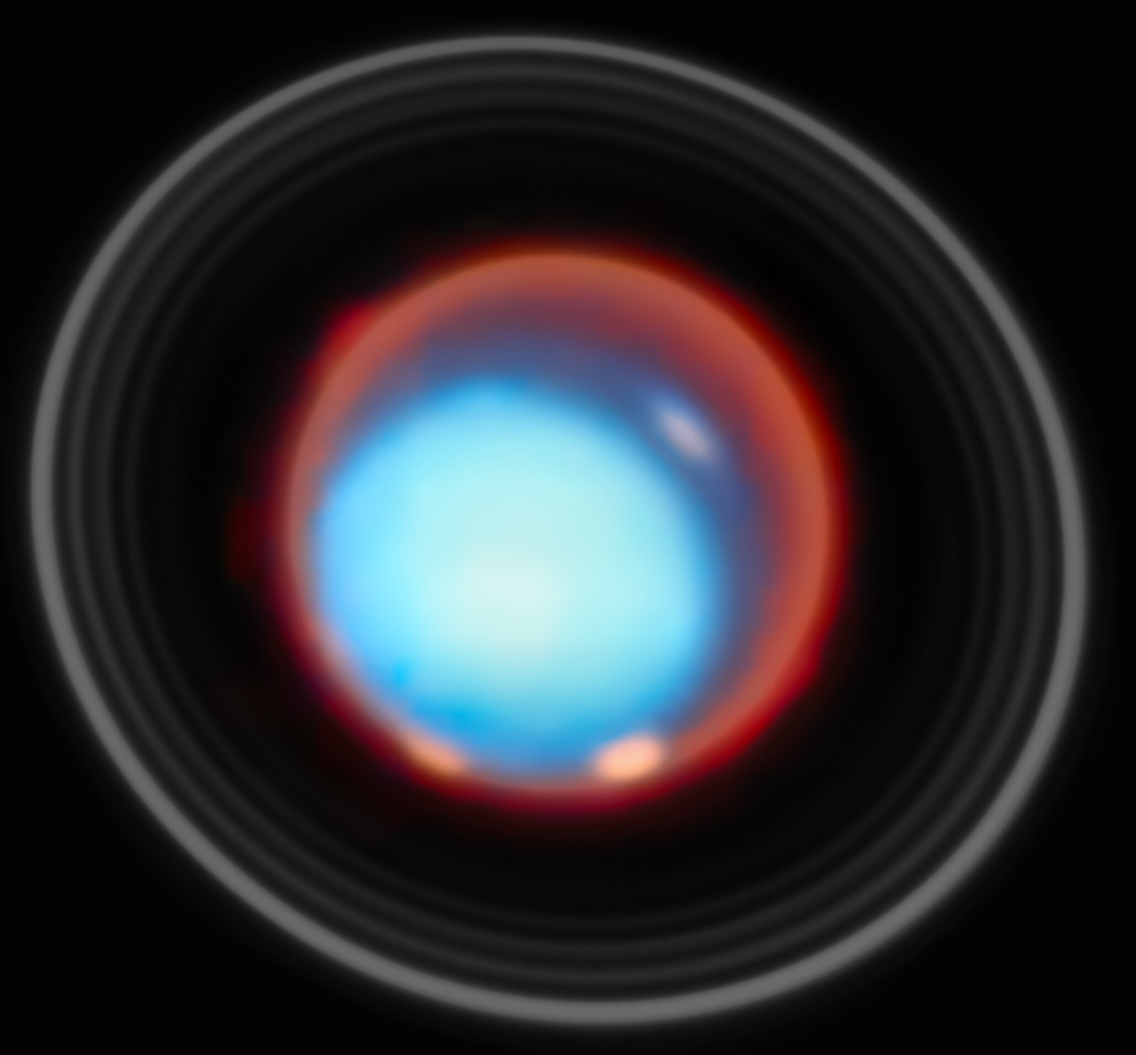
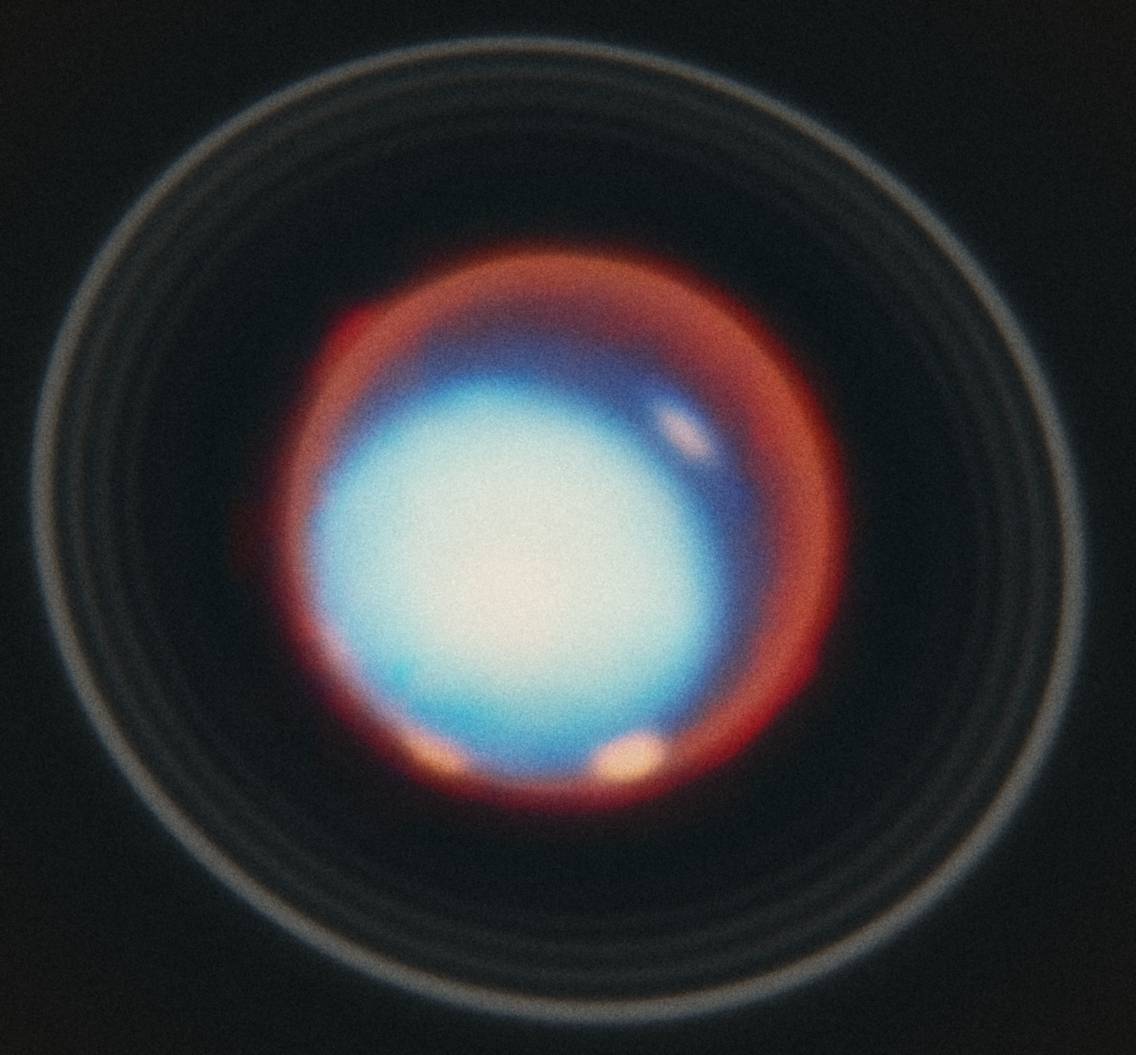
Gradação de filme "Halação" nas imagens do Webb
Originais movidos para src/assets/space/raw/; scripts/film-grade.py gera as
versões gradadas (até 2400px, JPG 88) com os mesmos nomes, então os imports
não mudam. Raios escalados pela largura (largura/1800). Ajustes depois de
conferir as cinco imagens: grão .035 -> .018, vinheta .5 -> .3, halação
curta 8px -> 3px (para chegar nas estrelas) e Urano com menos bloom e
halação. Imagens de Open Graph regeradas com a paleta e a foto novas.

diff --git a/scripts/film-grade.py b/scripts/film-grade.py
@@ -1,0 +1,120 @@
+"""Gradação de filme 'Halação' para as imagens do Webb.
+
+Uso:
+  python3 scripts/film-grade.py ENTRADA.jpg SAIDA.jpg [opções]
+  python3 scripts/film-grade.py --all        # regera src/assets/space/*.jpg a partir de raw/
+
+Os raios de bloom, halação e grão foram calibrados para ~1800px de largura e são
+multiplicados por largura/1800 (≈1.33 em 2400px). Ajustes por imagem ficam em PER_IMAGE.
+"""
+import argparse
+import sys
+from pathlib import Path
+
+import numpy as np
+from PIL import Image
+from scipy.ndimage import gaussian_filter, map_coordinates
+
+rng = np.random.default_rng(7)
+
+def lum(x): return x[..., 0]*.2126 + x[..., 1]*.7152 + x[..., 2]*.0722
+
+def curve(x, toe=.08, shoulder=.92, contrast=1.1):
+    # curva em S suave, pretos lavados, altas luzes sem estourar
+    y = 1/(1+np.exp(-contrast*6*(x-.5)))
+    lo, hi = 1/(1+np.exp(contrast*3)), 1/(1+np.exp(-contrast*3))
+    y = .45*x + .55*(y-lo)/(hi-lo)
+    return toe + y*(shoulder-toe)
+
+def saturate(x, s):
+    l = lum(x)[..., None]
+    return l + (x-l)*s
+
+def split_tone(x, shadow=(.36, .50, .56), highlight=(.68, .50, .34), amt=.3):
+    l = lum(x)[..., None]
+    return x + (np.array(shadow)-.5)*amt*(1-l) + (np.array(highlight)-.5)*amt*l
+
+def bloom(x, radius=60, amt=.45):
+    b = gaussian_filter(np.clip(x-.55, 0, 1), (radius, radius, 0))
+    return 1-(1-x)*(1-b*amt*2)
+
+def halation(x, thr, radius, color, amt):
+    m = np.clip((lum(x)-thr)/(1-thr), 0, 1)
+    g = gaussian_filter(m, radius)[..., None]*np.array(color)
+    return 1-(1-x)*(1-g*amt)
+
+def vignette(x, amt=.5, warm=(.12, .08, .05)):
+    h, w, _ = x.shape
+    yy, xx = np.mgrid[0:h, 0:w]
+    r = np.sqrt(((xx-w/2)/(w/2))**2 + ((yy-h/2)/(h/2))**2)/1.414
+    v = np.clip(r**2.2*amt*1.6, 0, 1)[..., None]
+    return x*(1-v) + np.array(warm)*v
+
+def chroma_ab(x, px=2.5):
+    h, w, _ = x.shape
+    yy, xx = np.mgrid[0:h, 0:w].astype(np.float32)
+    dy, dx = (yy-h/2)/h, (xx-w/2)/w
+    out = x.copy()
+    for c, k in ((0, 1), (2, -1)):
+        out[..., c] = map_coordinates(x[..., c], [yy+dy*px*k*2, xx+dx*px*k*2], order=1, mode='nearest')
+    return out
+
+def grain(x, amt=.035, size=.9):
+    h, w, _ = x.shape
+    n = gaussian_filter(rng.standard_normal((h, w)).astype(np.float32), size)
+    n /= n.std()
+    l = lum(x)
+    return x + (n*amt*(4*l*(1-l)+.25))[..., None]
+
+# Valores do Anexo A, com três ajustes globais depois de conferir as cinco imagens:
+# grain .035 -> .018 (aparecia de longe), vignette .5 -> .3 (cantos quase pretos nos recortes),
+# halo_r 8 -> 3 (com 8px a halação curta não chegava nas estrelas, só nas áreas claras grandes).
+DEFAULTS = dict(toe=.08, shoulder=.92, contrast=1.1, sat=.75, bloom=.45, halation=1.0, halo_r=3.0, vignette=.3, grain=.018)
+
+def grade(x, s=1.0, p=DEFAULTS):
+    """s: escala dos raios (largura/1800). p: parâmetros ajustáveis por imagem."""
+    x = gaussian_filter(x, (.9, .9, 0))          # película não é nítida como digital
+    x = split_tone(saturate(curve(x, p['toe'], p['shoulder'], p['contrast']), p['sat']))
+    x = bloom(x, 60*s, p['bloom'])
+    x = halation(x, .40, p['halo_r']*s, (1, .22, .06), 1.0*p['halation'])  # halação curta e intensa
+    x = halation(x, .50, 50*s, (1, .35, .12), .9*p['halation'])  # halação larga e suave
+    x = vignette(x, p['vignette'])
+    x = chroma_ab(x)
+    return np.clip(grain(x, p['grain'], .9*s), 0, 1)
+
+# Ajustes por imagem (ver README). Só o que difere de DEFAULTS.
+PER_IMAGE: dict[str, dict] = {
+    # O disco do planeta estourava para creme e perdia o ciano: menos bloom e halação,
+    # ombro mais baixo e quase toda a saturação original.
+    'uranus.jpg': dict(shoulder=.88, sat=.95, bloom=.1, halation=.35),
+}
+
+MAX_W = 2400
+
+def run(src, dst, overrides=None):
+    p = {**DEFAULTS, **PER_IMAGE.get(Path(src).name, {}), **(overrides or {})}
+    im = Image.open(src).convert('RGB')
+    if im.width > MAX_W:
+        im = im.resize((MAX_W, int(im.height*MAX_W/im.width)), Image.LANCZOS)
+    y = grade(np.asarray(im).astype(np.float32)/255, im.width/1800, p)
+    Image.fromarray((y*255+.5).astype(np.uint8)).save(dst, quality=88, optimize=True)
+    print(f'{src} -> {dst} ({im.width}x{im.height})', {k: v for k, v in p.items() if DEFAULTS[k] != v} or '')
+
+if __name__ == '__main__':
+    ap = argparse.ArgumentParser(description=__doc__, formatter_class=argparse.RawDescriptionHelpFormatter)
+    ap.add_argument('src', nargs='?')
+    ap.add_argument('dst', nargs='?')
+    ap.add_argument('--all', action='store_true', help='regera todas as imagens de src/assets/space/raw/')
+    for k, v in DEFAULTS.items():
+        ap.add_argument(f'--{k}', type=float, help=f'padrão {v}')
+    a = ap.parse_args()
+    ov = {k: getattr(a, k) for k in DEFAULTS if getattr(a, k) is not None}
+    if a.all:
+        space = Path(__file__).resolve().parent.parent/'src'/'assets'/'space'
+        for f in sorted((space/'raw').glob('*.jpg')):
+            run(f, space/f.name, ov)
+    elif a.src and a.dst:
+        run(a.src, a.dst, ov)
+    else:
+        ap.print_help()
+        sys.exit(1)

diff --git a/README.md b/README.md
@@ -35,4 +35,6 @@ Imagens do espaço do telescópio James Webb: NASA, ESA, CSA e STScI, via [ESA/W
 - `src/assets/space/horsehead.jpg`: Nebulosa Cabeça de Cavalo, NIRCam. Crédito: ESA/Webb, NASA, CSA, K. Misselt (University of Arizona) and A. Abergel (IAS/University Paris-Saclay, CNRS). https://esawebb.org/images/weic2411a/
 - `src/assets/space/sombrero.jpg`: Galáxia Sombrero, MIRI. Crédito: NASA, ESA, CSA, STScI. https://esawebb.org/images/weic2427a/
 
+As fotos do site passam pela gradação de filme "Halação" uma vez, antes do build. Os originais ficam em `src/assets/space/raw/`; para regerar as versões gradadas, rode `python3 -m pip install numpy pillow scipy` e depois `python3 scripts/film-grade.py --all` (ajustes por imagem ficam em `PER_IMAGE`, no próprio script).
+
 Capturas de tela e ícones dos projetos (Lyfia e RecuperAVC): do próprio autor. Logo do Google Play: Google LLC.
